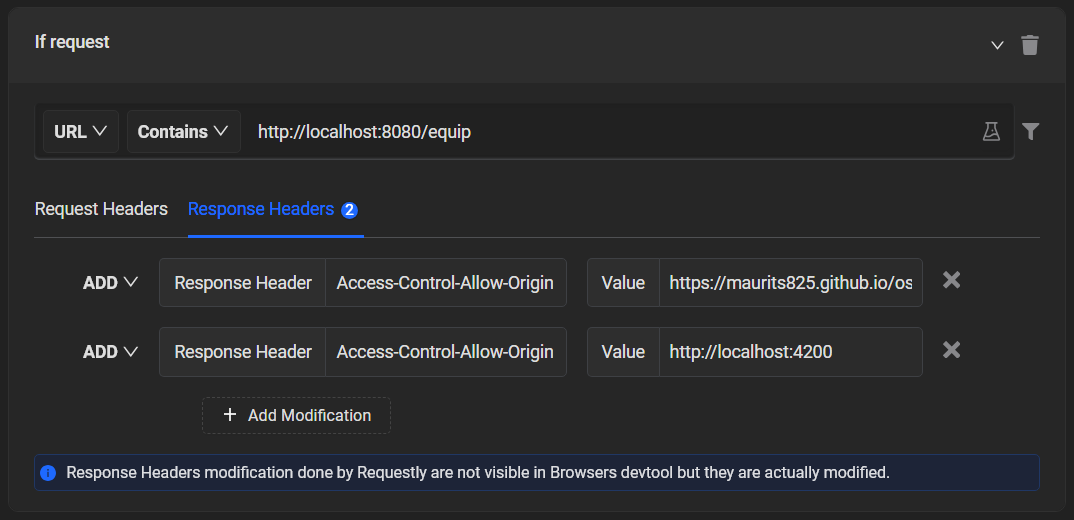
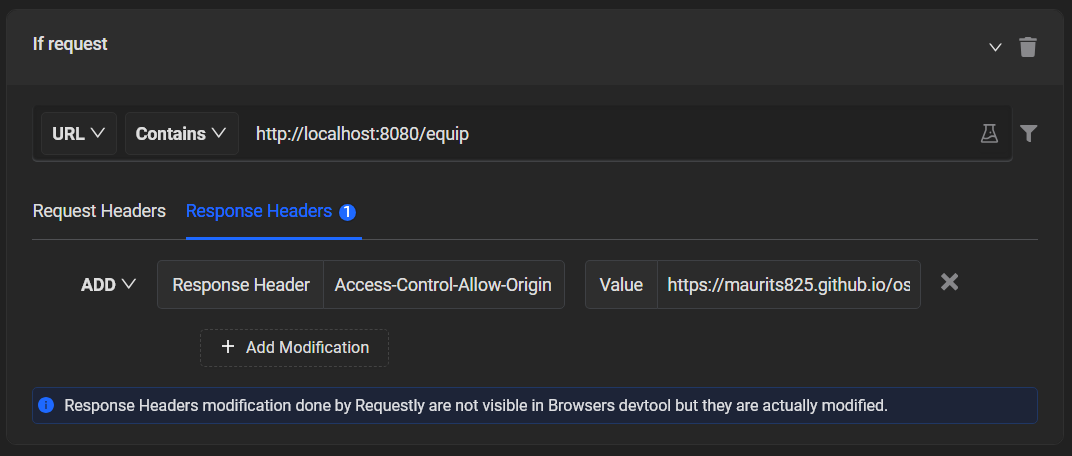
update rl setup guide

diff --git a/frontend/osrs-damage-sim/src/app/shared/modals/load-rl-setup-guide-modal/load-rl-setup-guide-modal.component.html b/frontend/osrs-damage-sim/src/app/shared/modals/load-rl-setup-guide-modal/load-rl-setup-guide-modal.component.html
@@ -19,27 +19,20 @@
       <a target="_blank" href="https://requestly.io/">Requestly</a> can be used for this.<br />
       Create a new <em>Modify Headers</em> rule with the following settings:
     </p>
-    <ul>
+    <ul class="mb-2">
       <li>URL contains <em>http://localhost:8080/equip</em></li>
       <li>
         Response Headers
         <ul>
-          Production Environment
-          <span *ngIf="isProduction" class="text-success">(currently in prod env)</span>
-          <div class="ps-4 mb-2">
-            <li>Header: <em>Access-Control-Allow-Origin</em></li>
-            <li>Value: <em>https://maurits825.github.io/osrs-damage-sim</em></li>
-          </div>
-          Local Environment (Optional)
-          <span *ngIf="!isProduction" class="text-success">(currently in local env)</span>
-          <div class="ps-4">
-            <li>Header: <em>Access-Control-Allow-Origin</em></li>
-            <li>Value: <em>http://localhost:4200</em></li>
-          </div>
+          <li>Header: <em>Access-Control-Allow-Origin</em></li>
+          <li>Value: <em>https://maurits825.github.io/osrs-damage-sim</em></li>
         </ul>
       </li>
     </ul>
     <img class="rounded img-fluid" src="assets/img/other/requestly_cors.png" title="Requestly CORS settings" />
+    <p class="mt-1">
+      (Optional) If running locally, duplicate the above rule and set the value to <em>http://localhost:4200</em>.
+    </p>
     <p class="mt-1">
       <a target="_blank" href="https://requestly.io/blog/what-is-cors-and-how-to-bypass-it/">More info</a> on these CORS
       settings.

diff --git a/frontend/osrs-damage-sim/src/app/shared/modals/load-rl-setup-guide-modal/load-rl-setup-guide-modal.component.ts b/frontend/osrs-damage-sim/src/app/shared/modals/load-rl-setup-guide-modal/load-rl-setup-guide-modal.component.ts
@@ -1,6 +1,5 @@
 import { Component } from '@angular/core';
 import { NgbActiveModal } from '@ng-bootstrap/ng-bootstrap';
-import { environment } from 'src/environments/environment';
 
 @Component({
   selector: 'app-load-rl-setup-guide-modal',
@@ -8,7 +7,5 @@ import { environment } from 'src/environments/environment';
   styleUrls: ['./load-rl-setup-guide-modal.component.css'],
 })
 export class LoadRlSetupGuideModalComponent {
-  isProduction = environment.production;
-
   constructor(public activeModal: NgbActiveModal) {}
 }
